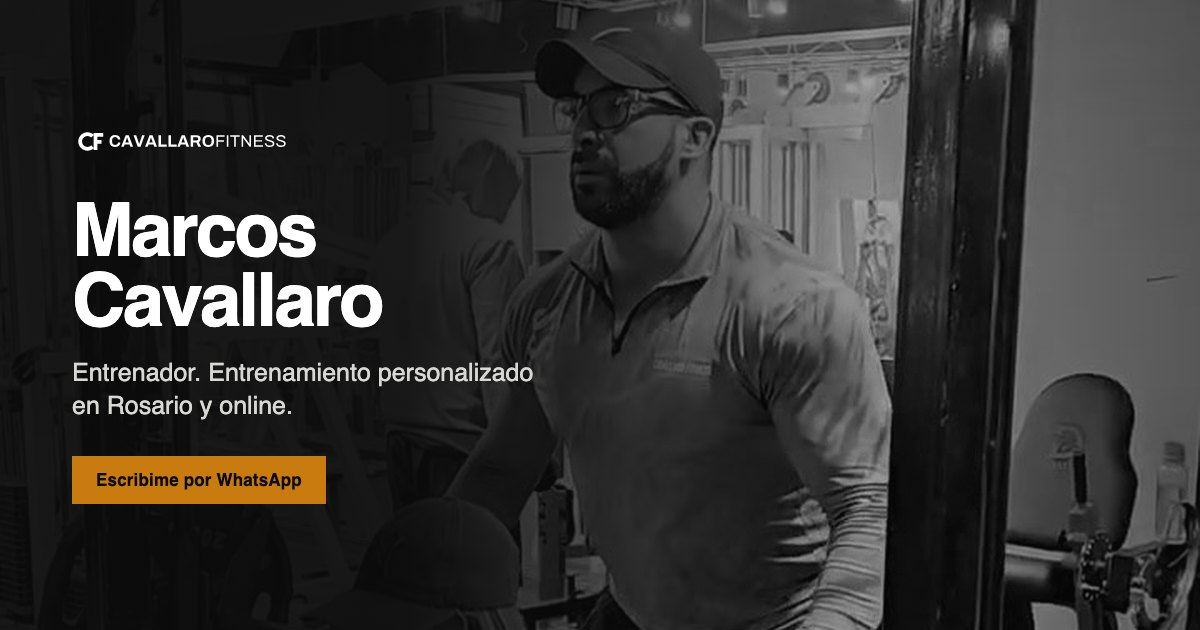
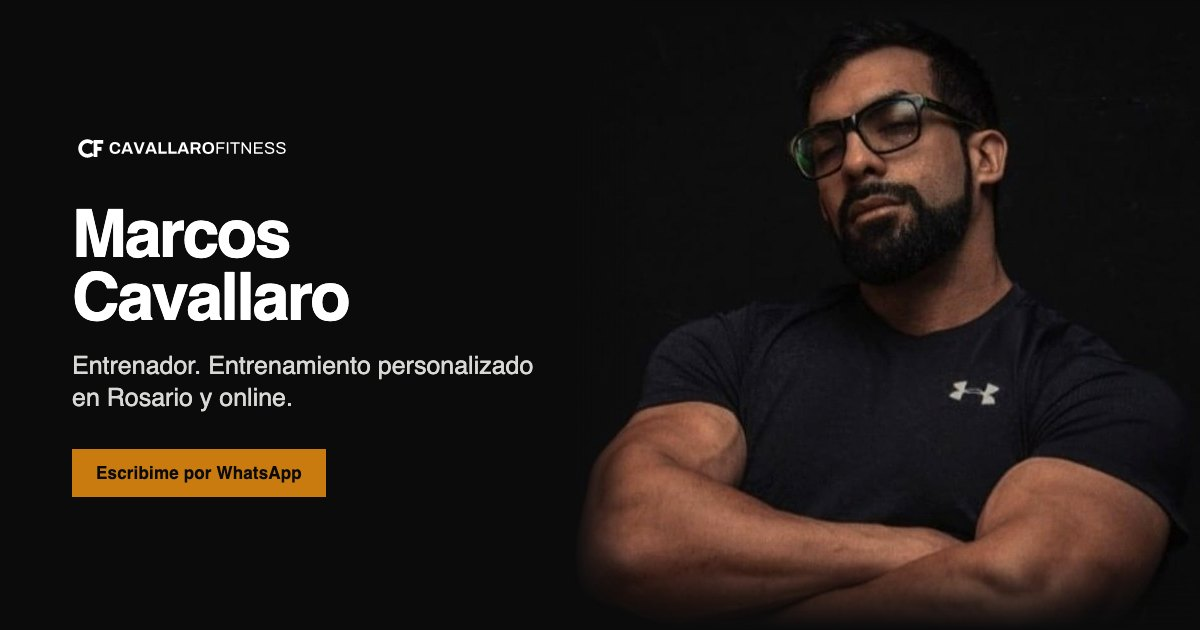
V3.2: el sitio como un único campo negro
Extiende al home y a la tarjeta la lógica aprobada en la prueba V3.2.

Hero: un solo eje. El servicio vuelve a ser titular (62 px) y el nombre
queda como atribución; el CTA vuelve al eje del texto y recupera un
secundario. Sale la gramática recorte/nota de la primera pantalla: en
densidad narrativa competía con el mensaje y obligaba a estirar una
fotografía de 720 px a pantalla completa.

Fotografía: ninguna imagen se muestra por encima de su resolución nativa.
La que pertenece al espacio se integra con .integra —punto de negro del
archivo igualado al del sitio y cantos disueltos por máscara—; la que
cumple función documental (el recorte del disco, en papel) conserva su
límite. Ningún fondo detrás de una foto es más oscuro que la página.

Marcos: se quita la fotografía encajonada a media sangre, que además se
mostraba ampliada 1,16x. La sección queda como texto en el mismo campo.

Salen los derivados de M-03 (escena, marcos, recorte-barra,
recorte-mirada): 720p en B/N y ampliados. Con eso el sitio deja de
mostrar a Marcos trabajando; se recupera con la sesión de fotos del
brief, no con CSS.

Entra M-02 en color desde el original de 1080 px. ATENCIÓN: M-02 sigue
con dos impedimentos abiertos —logotipo Under Armour en cuadro y cesión
del fotógrafo sin resolver—. No se disimuló ninguno. Ver DEPLOY.md §7:
esta rama no se despliega hasta que eso se decida.

Claude-Session: https://claude.ai/code/session_012sZ8cDsBhY7oYqsKZoBAe8

diff --git a/index.html b/index.html
@@ -21,7 +21,7 @@
 <meta property="og:image" content="https://hernancapucci.github.io/cavallaro-fitness/assets/img/og.jpg">
 <meta property="og:image:width" content="1200">
 <meta property="og:image:height" content="630">
-<meta property="og:image:alt" content="Marcos Cavallaro observando una ejecución en el gimnasio. Cavallaro Fitness.">
+<meta property="og:image:alt" content="Marcos Cavallaro, entrenador. Cavallaro Fitness — Rosario y online.">
 <meta name="twitter:card" content="summary_large_image">
 <meta name="twitter:title" content="Marcos Cavallaro — Entrenador en Rosario y online">
 <meta name="twitter:description" content="Conmigo no comprás una rutina. Entrenamiento personalizado con seguimiento: presencial en Rosario y online.">
@@ -55,36 +55,23 @@
 
 <!-- ═══ 1 · HERO ═══════════════════════════════════════════════════════ -->
 <section class="hero" aria-labelledby="h1">
-  <div class="escena">
-    <img class="foto" src="assets/img/escena.webp" width="720" height="420" fetchpriority="high"
-         alt="Marcos Cavallaro, de pie junto a una máquina de gimnasio, mira la ejecución de una alumna que está en primer plano.">
-  </div>
-  <div class="cap">
-    <div class="w">
-      <div class="rotulo">
-        <p class="eti">Cavallaro Fitness</p>
-        <h1 id="h1">Marcos Cavallaro
-          <span class="of">Entrenador. Entrenamiento personalizado en Rosario y online.</span>
-        </h1>
-      </div>
-      <div class="accion">
-        <p class="dif">Conmigo no comprás una rutina.
-          <em>Quiero que aprendas a entrenar.</em></p>
-        <figure class="gram">
-          <div class="recorte">
-            <img src="assets/img/recorte-barra.webp" width="215" height="215"
-                 alt="Detalle recortado de la misma fotografía: la barra cargada con un disco de 20 kilos y una mano sosteniéndola.">
-            <span class="n" aria-hidden="true">01</span>
-          </div>
-          <figcaption class="nota">
-            <span class="n" aria-hidden="true">01</span>
-            <p><b>La corrección empieza por mirar.</b> El recorte sale de la misma escena: es
-              la barra que él está observando mientras el alumno ejecuta.</p>
-          </figcaption>
-        </figure>
+  <div class="w">
+    <div class="mensaje">
+      <h1 id="h1">Marcos Cavallaro
+        <span class="serv">Entrenamiento personalizado en Rosario y online.</span>
+      </h1>
+      <p class="dif">Conmigo no comprás una rutina: quiero que aprendas a entrenar.</p>
+      <p class="info">Entrenador. Veinte años declarados entrenando personas. Presencial en
+        zona centro y Echesortu de Rosario, y online con seguimiento.</p>
+      <div class="botones">
         <a class="cta" href="https://wa.me/5493413357925?text=Hola%20Marcos%2C%20vi%20tu%20sitio%20y%20quer%C3%ADa%20consultarte%20por%20entrenamiento."
            target="_blank" rel="noopener" data-cta="hero">Escribime por WhatsApp</a>
+        <a class="cta linea" href="#como-trabajo">Cómo trabajo</a>
       </div>
+    </div>
+    <div class="retrato">
+      <img class="integra" src="assets/img/retrato-m02.webp" width="900" height="900" fetchpriority="high"
+           alt="Marcos Cavallaro, entrenador, retrato de estudio sobre fondo negro, con los brazos cruzados.">
     </div>
   </div>
 </section>
@@ -261,31 +248,23 @@
 
 <!-- ═══ 6 · MARCOS ═════════════════════════════════════════════════════ -->
 <section class="marcos" id="marcos" aria-labelledby="h2-marcos">
-  <div class="rejilla">
-    <div class="retrato">
-      <img class="foto" src="assets/img/marcos.webp" width="470" height="570" loading="lazy"
-           alt="Marcos Cavallaro de perfil, con gorra y anteojos, mirando hacia arriba mientras acompaña una serie.">
-    </div>
-    <div class="txt">
-      <div class="w largo">
-        <p class="eti">Marcos</p>
-        <h2 class="st" id="h2-marcos">Hace veinte años que mira cómo entrena la gente.</h2>
-        <p>Marcos Abel Cavallaro es entrenador. Trabaja en la zona centro de Rosario y en Echesortu,
-          y también online. Su formación declarada es de instructor de musculación.</p>
-        <p>Entrena a una persona por vez y evalúa a cada una antes de darle un plan. Preparó al
-          atleta que en diciembre de 2024 terminó quinto de doce en su categoría en el NPC
-          Worldwide Argentino.</p>
-        <blockquote>“No te diría que entrenes conmigo porque soy mejor que otro entrenador. Hay
-          muchos buenos profesionales. Te diría que entrenes conmigo si buscás algo más que una
-          rutina.”<cite>Marcos Cavallaro</cite></blockquote>
-        <p>Trabaja bajo la marca <b>Cavallaro Fitness</b>, registrada en el INPI de Argentina el
-          26 de diciembre de 2025 con el número 3775144, clase 41.</p>
-        <p class="sep-s">
-          <a class="enl" href="https://www.instagram.com/cavallarofitness/" target="_blank"
-             rel="me noopener" data-cta="instagram-marcos">Instagram · @cavallarofitness</a>
-        </p>
-      </div>
-    </div>
+  <div class="w largo">
+    <p class="eti">Marcos</p>
+    <h2 class="st" id="h2-marcos">Hace veinte años que mira cómo entrena la gente.</h2>
+    <p>Marcos Abel Cavallaro es entrenador. Trabaja en la zona centro de Rosario y en Echesortu,
+      y también online. Su formación declarada es de instructor de musculación.</p>
+    <p>Entrena a una persona por vez y evalúa a cada una antes de darle un plan. Preparó al
+      atleta que en diciembre de 2024 terminó quinto de doce en su categoría en el NPC
+      Worldwide Argentino.</p>
+    <blockquote>“No te diría que entrenes conmigo porque soy mejor que otro entrenador. Hay
+      muchos buenos profesionales. Te diría que entrenes conmigo si buscás algo más que una
+      rutina.”<cite>Marcos Cavallaro</cite></blockquote>
+    <p>Trabaja bajo la marca <b>Cavallaro Fitness</b>, registrada en el INPI de Argentina el
+      26 de diciembre de 2025 con el número 3775144, clase 41.</p>
+    <p class="sep-s">
+      <a class="enl" href="https://www.instagram.com/cavallarofitness/" target="_blank"
+         rel="me noopener" data-cta="instagram-marcos">Instagram · @cavallarofitness</a>
+    </p>
   </div>
 </section>
 
@@ -399,17 +378,17 @@
       "description": "Marcos Cavallaro, entrenador. Entrenamiento personalizado con evaluación, plan mensual, corrección de la ejecución y ajuste: presencial en Rosario (centro y Echesortu) y online.",
       "isPartOf": { "@id": "https://hernancapucci.github.io/cavallaro-fitness/#website" },
       "about": { "@id": "https://hernancapucci.github.io/cavallaro-fitness/#marcos" },
-      "primaryImageOfPage": { "@id": "https://hernancapucci.github.io/cavallaro-fitness/#escena" },
+      "primaryImageOfPage": { "@id": "https://hernancapucci.github.io/cavallaro-fitness/#retrato" },
       "inLanguage": "es-AR",
       "creditText": "Sitio diseñado y desarrollado por OwnSite Studio"
     },
     {
       "@type": "ImageObject",
-      "@id": "https://hernancapucci.github.io/cavallaro-fitness/#escena",
-      "contentUrl": "https://hernancapucci.github.io/cavallaro-fitness/assets/img/escena.jpg",
-      "width": 720,
-      "height": 420,
-      "caption": "Marcos Cavallaro mira la ejecución de una alumna en el gimnasio."
+      "@id": "https://hernancapucci.github.io/cavallaro-fitness/#retrato",
+      "contentUrl": "https://hernancapucci.github.io/cavallaro-fitness/assets/img/retrato-m02.jpg",
+      "width": 900,
+      "height": 900,
+      "caption": "Marcos Cavallaro, entrenador. Retrato de estudio."
     },
     {
       "@type": "Brand",
@@ -432,7 +411,7 @@
       "jobTitle": "Entrenador",
       "description": "Entrenador. Entrenamiento personalizado con evaluación inicial, planificación mensual, corrección de la ejecución y medición y ajuste. Presencial en Rosario y online.",
       "url": "https://hernancapucci.github.io/cavallaro-fitness/",
-      "image": { "@id": "https://hernancapucci.github.io/cavallaro-fitness/#escena" },
+      "image": { "@id": "https://hernancapucci.github.io/cavallaro-fitness/#retrato" },
       "telephone": "+5493413357925",
       "email": "marcoscavallaro81@gmail.com",
       "brand": { "@id": "https://hernancapucci.github.io/cavallaro-fitness/#marca" },

diff --git a/assets/css/site.css b/assets/css/site.css
@@ -62,11 +62,24 @@ h2.st{font-size:24px;font-weight:700;letter-spacing:-.03em;line-height:1.08;
 .barra .marca img{height:17px;width:auto}
 .barra nav{display:none}
 
+/* ═══ integración con el campo negro ═══════════════════════════════════
+   Lleva el punto de negro del archivo (#161616 medido en M-02) al del sitio
+   (#0B0B0C) y disuelve los cantos. La máscara no recorta: atenúa. Se aplica
+   sólo a la fotografía que pertenece al espacio; la que cumple función
+   documental conserva su límite. */
+.integra{filter:contrast(1.104);
+  -webkit-mask-image:linear-gradient(to bottom,transparent 0,#000 4%,#000 88%,transparent 100%),
+                     linear-gradient(to right,transparent 0,#000 4%,#000 96%,transparent 100%);
+          mask-image:linear-gradient(to bottom,transparent 0,#000 4%,#000 88%,transparent 100%),
+                     linear-gradient(to right,transparent 0,#000 4%,#000 96%,transparent 100%);
+  -webkit-mask-composite:source-in;
+          mask-composite:intersect}
+
 /* ═══ la gramática: nada se dibuja encima de la fotografía ═══ */
-.foto{width:100%;height:100%;object-fit:cover;background:#000}
+.foto{width:100%;height:100%;object-fit:cover;background:var(--fondo)}
 .gram{display:flex;gap:14px;align-items:flex-start}
 .recorte{position:relative;flex:0 0 auto;width:118px;height:118px;
-  border:1px solid rgba(255,255,255,.85);background:#000}
+  border:1px solid rgba(255,255,255,.85);background:var(--fondo)}
 .papel .recorte{border-color:var(--txt-p)}
 .recorte img{width:100%;height:100%;object-fit:cover}
 .recorte .n{position:absolute;left:-1px;top:-1px;background:var(--ambar);color:var(--fondo);
@@ -95,20 +108,16 @@ h2.st{font-size:24px;font-weight:700;letter-spacing:-.03em;line-height:1.08;
 .papel .enl:hover{box-shadow:inset 0 -1px 0 0 var(--txt-p)}
 
 /* ═══ 1 · HERO ═══ */
-.hero{background:#000}
-.hero .escena{position:relative;background:#000}
-.hero .escena .foto{height:min(50vh,392px);min-height:300px;object-position:62% 26%}
-.hero .cap{position:relative;margin-top:-96px;padding-top:70px;
-  background:linear-gradient(rgba(11,11,12,0) 0,var(--fondo) 84px)}
-.hero .eti{color:rgba(255,255,255,.82)}
-.hero h1{font-weight:700;letter-spacing:-.035em;line-height:.94;font-size:40px;margin-top:4px}
-.hero h1 .of{display:block;font-size:14px;font-weight:400;letter-spacing:0;
-  line-height:1.5;color:#B4B4B0;margin-top:14px;max-width:26em}
-.hero .accion{margin-top:26px}
-.hero .dif{font-size:18px;font-weight:500;line-height:1.35;max-width:20em}
-.hero .dif em{display:block;font-style:normal;color:#B4B4B0;margin-top:6px}
-.hero .gram{margin-top:22px}
-.hero .cta{margin-top:24px}
+.hero{padding:40px 0 0}
+.hero h1{font-weight:600;font-size:19px;letter-spacing:-.01em;line-height:1.1}
+.hero h1 .serv{display:block;font-weight:700;font-size:34px;letter-spacing:-.038em;
+  line-height:1.02;margin-top:10px;max-width:14ch}
+.hero .dif{font-size:18px;font-weight:500;line-height:1.4;color:#B4B4B0;margin-top:22px;max-width:24em}
+.hero .info{font-size:14.5px;line-height:1.55;color:var(--sec);margin-top:14px;max-width:34em}
+.hero .botones{display:flex;flex-direction:column;gap:10px;margin-top:28px}
+.hero .botones .cta{width:100%}
+.hero .retrato{margin-top:40px;line-height:0}
+.hero .retrato img{display:block;width:100%;height:auto}
 
 /* ═══ 2 · CÓMO TRABAJO ═══ */
 .tiempo{display:grid;grid-template-columns:28px 1fr;gap:12px;padding:18px 0;
@@ -155,10 +164,7 @@ h2.st{font-size:24px;font-weight:700;letter-spacing:-.03em;line-height:1.08;
 .reserv b{color:var(--txt-p)}
 
 /* ═══ 6 · MARCOS ═══ */
-.marcos{border-top:1px solid var(--linea)}
-.marcos .retrato{position:relative;background:#000}
-.marcos .retrato .foto{height:min(52vh,380px);min-height:280px;object-position:50% 22%}
-.marcos .txt{padding-top:32px;padding-bottom:44px}
+.marcos{border-top:1px solid var(--linea);padding:44px 0}
 .largo p{font-size:15px;line-height:1.75;max-width:32em;color:#D8D8D4}
 .largo p+p{margin-top:14px}
 blockquote{border-left:1px solid var(--sec);padding-left:16px;margin:18px 0;
@@ -201,7 +207,8 @@ blockquote cite{display:block;font-style:normal;font-size:11px;letter-spacing:.1
   .gram{gap:11px}
   .recorte{width:104px;height:104px}
   .nota{grid-template-columns:22px 1fr;gap:9px}
-  .hero h1{font-size:36px}
+  .hero h1 .serv{font-size:30px}
+  .hero .dif{font-size:17px}
   h2.st{font-size:22px}
 }
 
@@ -210,10 +217,14 @@ blockquote cite{display:block;font-style:normal;font-size:11px;letter-spacing:.1
   :root{--pad:32px}
   .sec{padding:56px 0}
   h2.st{font-size:28px}
-  .hero .escena .foto{height:min(62vh,520px);object-position:62% 26%}
-  .hero h1{font-size:56px}
-  .hero h1 .of{font-size:15px}
-  .hero .dif{font-size:20px}
+  .hero{padding-top:56px}
+  .hero h1{font-size:21px}
+  .hero h1 .serv{font-size:52px;margin-top:12px}
+  .hero .dif{font-size:20px;margin-top:26px}
+  .hero .info{font-size:15.5px}
+  .hero .botones{flex-direction:row;flex-wrap:wrap;gap:14px;margin-top:34px}
+  .hero .botones .cta{width:auto;padding:19px 34px;font-size:15.5px;min-height:60px}
+  .hero .retrato{margin-top:52px;max-width:520px}
   .lista{grid-template-columns:repeat(2,1fr)}
   .dos{grid-template-columns:1fr 1fr;gap:44px}
   .tiempo{grid-template-columns:34px 1fr 108px;gap:20px;align-items:baseline}
@@ -221,7 +232,6 @@ blockquote cite{display:block;font-style:normal;font-size:11px;letter-spacing:.1
   .fila{grid-template-columns:168px 1fr 92px;gap:20px}
   .fila .k{grid-column:auto;margin-bottom:0}
   .datos{grid-template-columns:repeat(2,1fr);gap:0 44px}
-  .marcos .retrato .foto{height:420px}
 }
 
 /* ═══════════ 1000 px ═══════════ */
@@ -236,21 +246,12 @@ blockquote cite{display:block;font-style:normal;font-size:11px;letter-spacing:.1
   .barra nav a:hover{color:var(--txt)}
   .barra .marca img{height:20px}
 
-  /* hero: la escena a sangre, el rótulo y la acción sobre el degradado */
-  /* la escena y el rótulo comparten celda: el texto se apoya sobre la fotografía */
-  .hero{display:grid}
-  .hero>.escena{grid-area:1/1}
-  .hero>.cap{grid-area:1/1;align-self:end;z-index:2;margin-top:0;
-    padding:120px 0 52px;
-    background:linear-gradient(rgba(11,11,12,0) 0,rgba(11,11,12,.62) 24%,rgba(11,11,12,.96) 60%)}
-  .hero .escena .foto{height:min(78vh,660px);min-height:560px}
-  .hero .cap .w{display:grid;grid-template-columns:1fr 440px;gap:48px;align-items:end}
-  .hero h1{font-size:72px}
-  .hero .accion{margin-top:0}
-  .hero .cta{display:inline-block;padding:16px 26px}
-  .hero .gram{margin-top:20px}
-  .hero .recorte{width:168px;height:168px}
-  .hero .nota p{max-width:22em}
+  /* hero: un solo eje. El texto manda; la fotografía es un objeto que
+     pertenece al mismo campo negro y no lleva nada escrito encima. */
+  .hero{padding:96px 0 104px}
+  .hero .w{display:grid;grid-template-columns:1fr 440px;gap:88px;align-items:center}
+  .hero h1 .serv{font-size:62px;max-width:13ch}
+  .hero .retrato{margin-top:0;max-width:none}
 
   .met{display:grid;grid-template-columns:300px 1fr;gap:56px}
   .met h2{margin-bottom:16px}
@@ -259,10 +260,6 @@ blockquote cite{display:block;font-style:normal;font-size:11px;letter-spacing:.1
   .evid{display:grid;grid-template-columns:1fr 400px;gap:52px;align-items:start}
   .evid-gram{margin-top:0}
   .papel .recorte{width:168px;height:168px}
-  .marcos .rejilla{display:grid;grid-template-columns:480px 1fr;align-items:stretch}
-  .marcos .retrato .foto{height:100%;min-height:520px}
-  .marcos .txt{padding:56px 64px;display:flex;flex-direction:column;justify-content:center}
-  .marcos .txt .w{padding:0;max-width:none}
   .contacto h2{font-size:38px}
   .contacto .cta{display:inline-block;padding:18px 30px;font-size:16px}
 }

diff --git a/tarjeta/index.html b/tarjeta/index.html
@@ -32,12 +32,8 @@
 <style>
   body{display:flex;flex-direction:column;min-height:100svh}
   .tarjeta{width:100%;max-width:430px;margin:0 auto;flex:1;display:flex;flex-direction:column}
-  .tarjeta .escena{position:relative;background:#000}
-  .tarjeta .escena .foto{height:min(34vh,270px);min-height:190px;object-position:50% 20%}
-  .tarjeta .banda{position:relative;margin-top:-46px;padding:0 20px 4px;z-index:2;
-    background:linear-gradient(rgba(11,11,12,0) 0,var(--fondo) 46px)}
-  .tarjeta .recorte{width:96px;height:96px}
-    .tarjeta .banda .nota{padding-top:54px}
+  .tarjeta .retrato{padding:8px 20px 0;line-height:0}
+  .tarjeta .retrato img{width:100%;max-width:300px;height:auto;margin:0 auto}
   .tarjeta .cuerpo{padding:20px 20px calc(26px + env(safe-area-inset-bottom))}
   .tarjeta .cuerpo img.firma{height:16px;width:auto}
   .tarjeta h1{font-size:34px;font-weight:700;letter-spacing:-.035em;line-height:1;margin-top:16px}
@@ -55,24 +51,10 @@
 
 <body>
 <main class="tarjeta">
-  <div class="escena">
-    <img class="foto" src="../assets/img/marcos.webp" width="470" height="570" fetchpriority="high"
-         alt="Marcos Cavallaro de perfil, con gorra y anteojos, en el gimnasio.">
-  </div>
-
-  <div class="banda">
-    <figure class="gram">
-      <div class="recorte">
-        <img src="../assets/img/recorte-mirada.webp" width="310" height="310"
-             alt="Detalle recortado de la misma fotografía: el rostro de Marcos con la atención puesta en la ejecución.">
-        <span class="n" aria-hidden="true">01</span>
-      </div>
-      <figcaption class="nota">
-        <span class="n" aria-hidden="true">01</span>
-        <p><b>Mira.</b> El recorte sale de la fotografía de arriba: la atención puesta en cómo se
-          ejecuta. Es lo que hace todos los días.</p>
-      </figcaption>
-    </figure>
+  <div class="retrato">
+    <img class="integra" src="../assets/img/marcos-retrato.webp" width="600" height="800"
+         fetchpriority="high"
+         alt="Marcos Cavallaro, entrenador, retrato de estudio sobre fondo negro.">
   </div>
 
   <div class="cuerpo">

diff --git a/DEPLOY.md b/DEPLOY.md
@@ -109,3 +109,56 @@ de evidencia. No borrar ese bloque sin decidir qué pasa con el color.
 **Los assets se regeneran** con `~/CAVALLARO FITNESS/06-IMPLEMENTACION/assets.py`, que los
 emite desde la geometría maestra (`04-IDENTIDAD/maestra`) y desde los derivados
 fotográficos (`05-SISTEMA-VISUAL/inventario/derivados`). No editar los SVG a mano.
+
+---
+
+## 7. V3.2 · Un único campo negro (2026-09-01)
+
+Corrección del lenguaje visual después de comparar V1, V2 y las pruebas V3 / V3.1 / V3.2.
+La portada de V2 competía consigo misma: dos ejes de lectura, la gramática recorte/nota
+peleando con el mensaje, el CTA fuera del recorrido y una fotografía de 720 px estirada a
+pantalla completa. V3.2 quedó aprobada como dirección y este commit la extiende al sitio.
+
+**Reglas que están codificadas y que no hay que romper:**
+
+| Regla | Dónde vive |
+|---|---|
+| El sitio es **un único campo negro**. La única excepción es el territorio de papel, reservado a evidencia | `.sec.papel` sólo en `#resultados` |
+| **Ninguna fotografía se muestra por encima de su resolución nativa** | ver la tabla de escalas más abajo |
+| La fotografía que **pertenece al espacio** se integra con `.integra`: punto de negro igualado (`contrast(1.104)`) y cantos disueltos por máscara | `site.css`, clase `.integra` |
+| La fotografía con **función documental conserva su límite** | `.papel .recorte` mantiene su filete |
+| **Ningún fondo detrás de una foto más oscuro que la página** | `.foto` y `.recorte` usan `var(--fondo)`, ya no `#000` |
+| La gramática **plano + recorte + nota** aparece **una sola vez**, en Resultados, donde explica algo | `index.html`, `.evid-gram` |
+| El **ámbar sigue apareciendo dos veces**: CTA del hero y CTA de contacto | `--ambar` en `site.css` |
+| El hero tiene **un solo eje**: texto y botones arrancan en el mismo x que el H1 | `.hero .w` |
+| **Nada escrito encima de una fotografía**, en ninguna sección | — |
+
+**Escalas de las fotografías (mostrada ÷ nativa; nunca > 1):**
+
+| Archivo | Nativa | Home 1440 | Home 390 | Tarjeta 390 |
+|---|---|---|---|---|
+| `retrato-m02.webp` | 900 × 900 | 0,49 | 0,39 | — |
+| `marcos-retrato.webp` | 600 × 800 | — | — | 0,50 |
+| `recorte-disco.webp` | 180 × 180 | 0,92 | 0,64 | — |
+
+### ⚠ BLOQUEO PARA PUBLICAR — no levantar sin resolver esto
+
+El sitio usa ahora **M-02** (retrato de estudio) en el hero, en la tarjeta y en la imagen
+de compartir. **M-02 tiene dos impedimentos abiertos y documentados:**
+
+1. **Logotipo de Under Armour visible en cuadro.** Marca ajena en la fotografía que sostiene
+   toda la presencia de Marcos. Registrado en `04-IDENTIDAD/01-CIERRE-IDENTIDAD-BASE.md` §7
+   como **no recomendada para pieza principal ni hero definitivo**.
+2. **Cesión de derechos sin resolver.** Retrato de estudio, fotógrafo desconocido.
+   Ítem 44 de `01-ADENDA-MATERIAL-ORIGINAL.md`.
+
+Ninguno de los dos se resolvió acá y ninguno se disimuló. **Esta rama no se despliega**
+hasta que el cliente decida sobre los dos puntos, o hasta que exista la sesión de fotos
+propia que pide `05-SISTEMA-VISUAL/01-BRIEF-FOTOGRAFICO.md`. El `noindex` sigue puesto.
+
+### Qué se sacó, y qué se pierde con eso
+
+Salieron del sitio los derivados de M-03 (`escena`, `marcos`, `recorte-barra`,
+`recorte-mirada`): eran 720p tratados en blanco y negro y se mostraban ampliados. Con eso
+**el sitio ya no muestra a Marcos trabajando**, que era el mejor argumento visual del lote.
+Eso no se recupera con CSS: se recupera con la sesión de fotos del brief.
